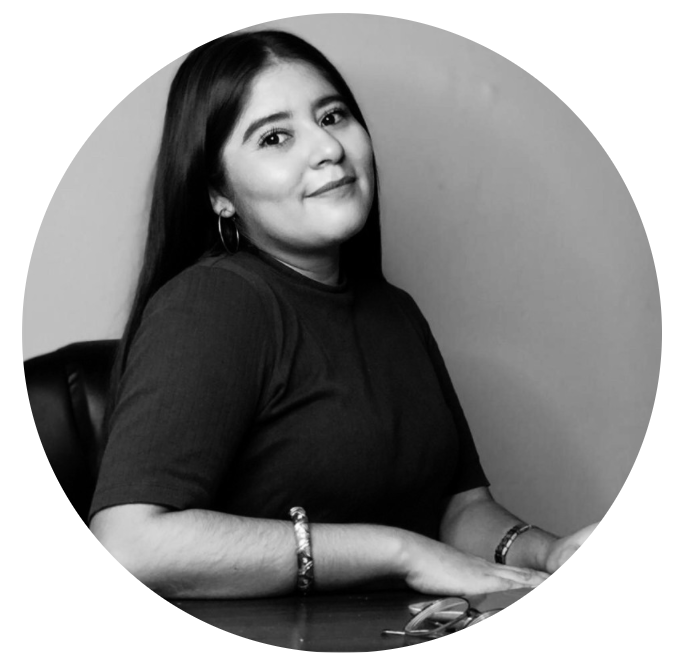
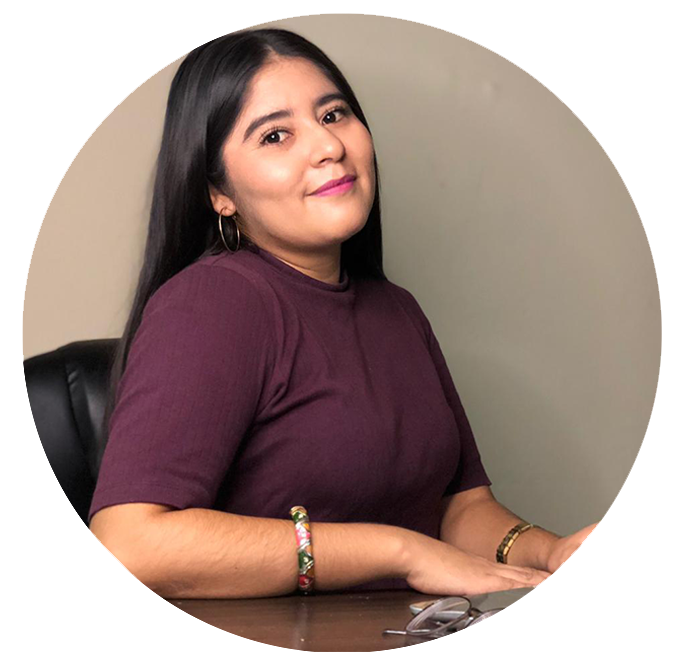
add Fabi and things

diff --git a/src/Components/AboutUs.js b/src/Components/AboutUs.js
@@ -2,6 +2,7 @@ import React from "react";
 import { Card, Container, Row, Col } from "react-bootstrap";
 import pau from "../Assets/images/Pau.jpeg";
 import gaby from "../Assets/images/Gaby.PNG";
+import fabi from "../Assets/images/Fabi.jpg";
 
 function AboutUs() {
   return (
@@ -29,15 +30,11 @@ function AboutUs() {
             y herramientas financieras en todos los países de América Latina.{" "}
           </p>
         </div>
-        <Container className="d-flex justify-content-around">
-          <Row>
-            <Col>
+        <Container className="d-flex flex-wrap justify-content-around">
+          <Row className="firstsCardsRow">
+            <Col className="firstsCardsColumn">
               <Card className="personalCard">
-                <Card.Img
-                  src={pau}
-                  style={{ filter: "grayscale(100%)", width: "auto" }}
-                  className="no-display"
-                />
+                <Card.Img src={pau} className="personalPic no-display" />
                 <Card.Body>
                   <Card.Title>Paula Victoria Guelfo</Card.Title>
                   <Card.Text>
@@ -59,13 +56,9 @@ function AboutUs() {
                 </Card.Body>
               </Card>
             </Col>
-            <Col>
+            <Col className="firstsCardsColumn">
               <Card className="personalCard">
-                <Card.Img
-                  src={gaby}
-                  style={{ width: "auto" }}
-                  className="no-display"
-                />
+                <Card.Img src={gaby} className="personalPic no-display" />
                 <Card.Body>
                   <Card.Title>Gabriela Rocha Galviz</Card.Title>
                   <Card.Text>
@@ -77,6 +70,33 @@ function AboutUs() {
                     <a
                       target="blank"
                       href="https://www.linkedin.com/in/gabriela-rocha-galviz-22770a132/"
+                    >
+                      <i className="bi bi-linkedin icon-button"></i>
+                    </a>
+                    <a target="blank" href="mailto:grocha@growlatam.net">
+                      <i className="bi bi-envelope icon-button"></i>
+                    </a>
+                  </div>
+                </Card.Body>
+              </Card>
+            </Col>
+          </Row>
+          <Row>
+            <Col className="thirdCardColumn">
+              <Card className="personalCard">
+                <Card.Img src={fabi} className="personalPic no-display" />
+                <Card.Body>
+                  <Card.Title>Fabiola Acarapi Alvarez</Card.Title>
+                  <Card.Text>
+                    Ingeniera en Software, miembro de Youth Task Force de
+                    Amnesty International. Destacada entre las mujeres que
+                    contruyen la Bolivia Digital y la Agencia de Gobierno
+                    Electrónico AGETIC.
+                  </Card.Text>
+                  <div className="d-flex justify-content-around">
+                    <a
+                      target="blank"
+                      href="https://www.linkedin.com/in/fabiacarapi/"
                     >
                       <i className="bi bi-linkedin icon-button"></i>
                     </a>

diff --git a/src/Assets/constants/activeFeatures.js b/src/Assets/constants/activeFeatures.js
@@ -3,7 +3,7 @@ export const activeFeatures = [
     icon: "bi-calculator",
     title: "Controlá tus Finanzas 24/7",
     description:
-      "Carga tus ingresos y gastos de manera sencilla. Arma un presupuesto y un flujo de fondos con nuestra ayuda, para entender cómo estás financieramente y planificar tus objetivos.",
+      "Cargá tus ingresos y gastos de manera sencilla. Armá un presupuesto y un flujo de fondos con nuestra ayuda, para entender cómo estás financieramente y planificar tus objetivos.",
   },
   {
     icon: "bi-shop",
@@ -15,7 +15,7 @@ export const activeFeatures = [
     icon: "bi-controller",
     title: "Jugá y ganá puntos",
     description:
-      "Aprendé a manejar tu dinero jugando. A medida que vayas mejorando tu economía, irás ganando puntos y podrás canjear por beneficios.",
+      "Aprendé a manejar tu dinero jugando. A medida que vayas mejorando tu economía, irás ganando puntos y podrás canjearlos por beneficios.",
   },
   {
     icon: "bi-people-fill",

diff --git a/src/Components/Features.js b/src/Components/Features.js
@@ -16,8 +16,8 @@ function Features() {
           <p className="lead">
             <strong>Kashú</strong> es una app para aprender a mejorar tu
             economía, jugando. Además, te damos todas las herramientas para que
-            puedas aplicar lo aprendido, y que realmente puedas tener mas
-            ahorros y ¡empezar a hacerlos crecer!
+            puedas aplicar lo aprendido, tener mas ahorros y ¡empezar a hacerlos
+            crecer!
           </p>
         </div>
         <Row>

diff --git a/src/App.scss b/src/App.scss
@@ -94,6 +94,28 @@ $primary: #5c54f0;
   }
 }
 
+.personalPic {
+  width: auto;
+}
+
+.firstsCardsRow {
+  @include media-breakpoint-between("xs", "md") {
+    flex-direction: column;
+    .firstsCardsColumn {
+      width: 100%;
+    }
+  }
+}
+
+.thirdCardColumn {
+  max-width: 50%;
+  margin: 20px auto;
+  @include media-breakpoint-between("xs", "md") {
+    max-width: 100%;
+    margin: 0px auto;
+  }
+}
+
 .no-display {
   @include media-breakpoint-between("xs", "md") {
     display: none;

diff --git a/src/Components/Footer.js b/src/Components/Footer.js
@@ -19,7 +19,7 @@ function Footer() {
           <a href="#">Política de privacidad</a>
         </li>
         <li className="list-inline-item">
-          <a href="#">Apoya a Kashú</a>
+          <a href="#contact">Apoya a Kashú</a>
         </li>
       </ul>
     </footer>
